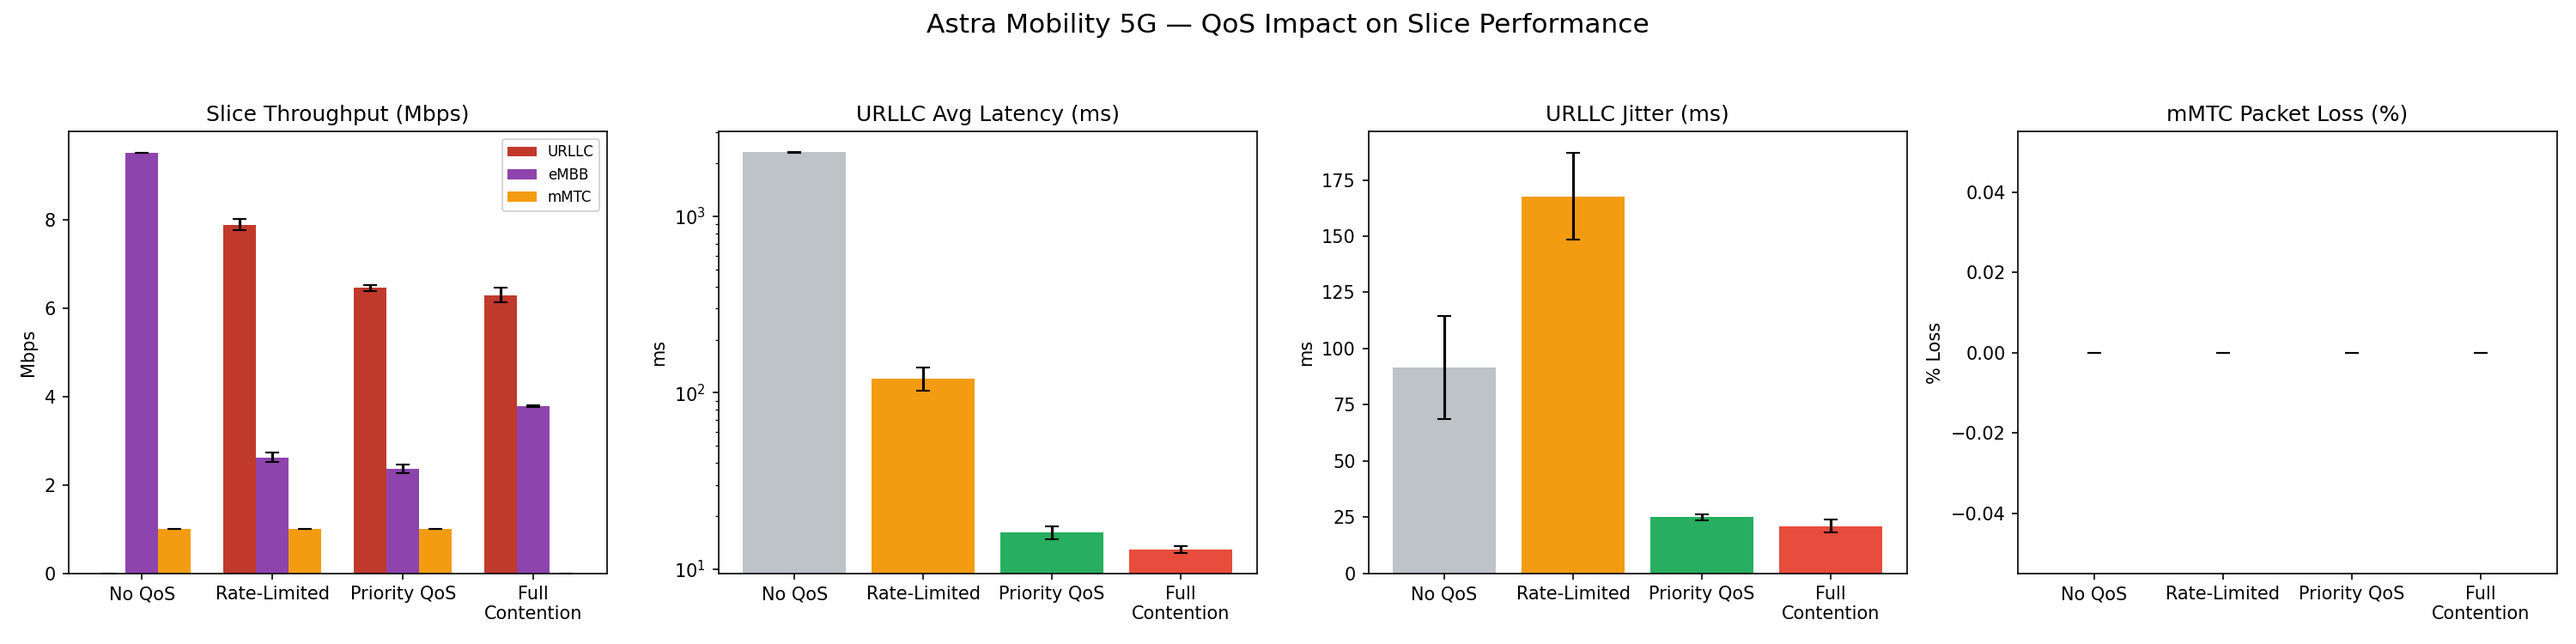
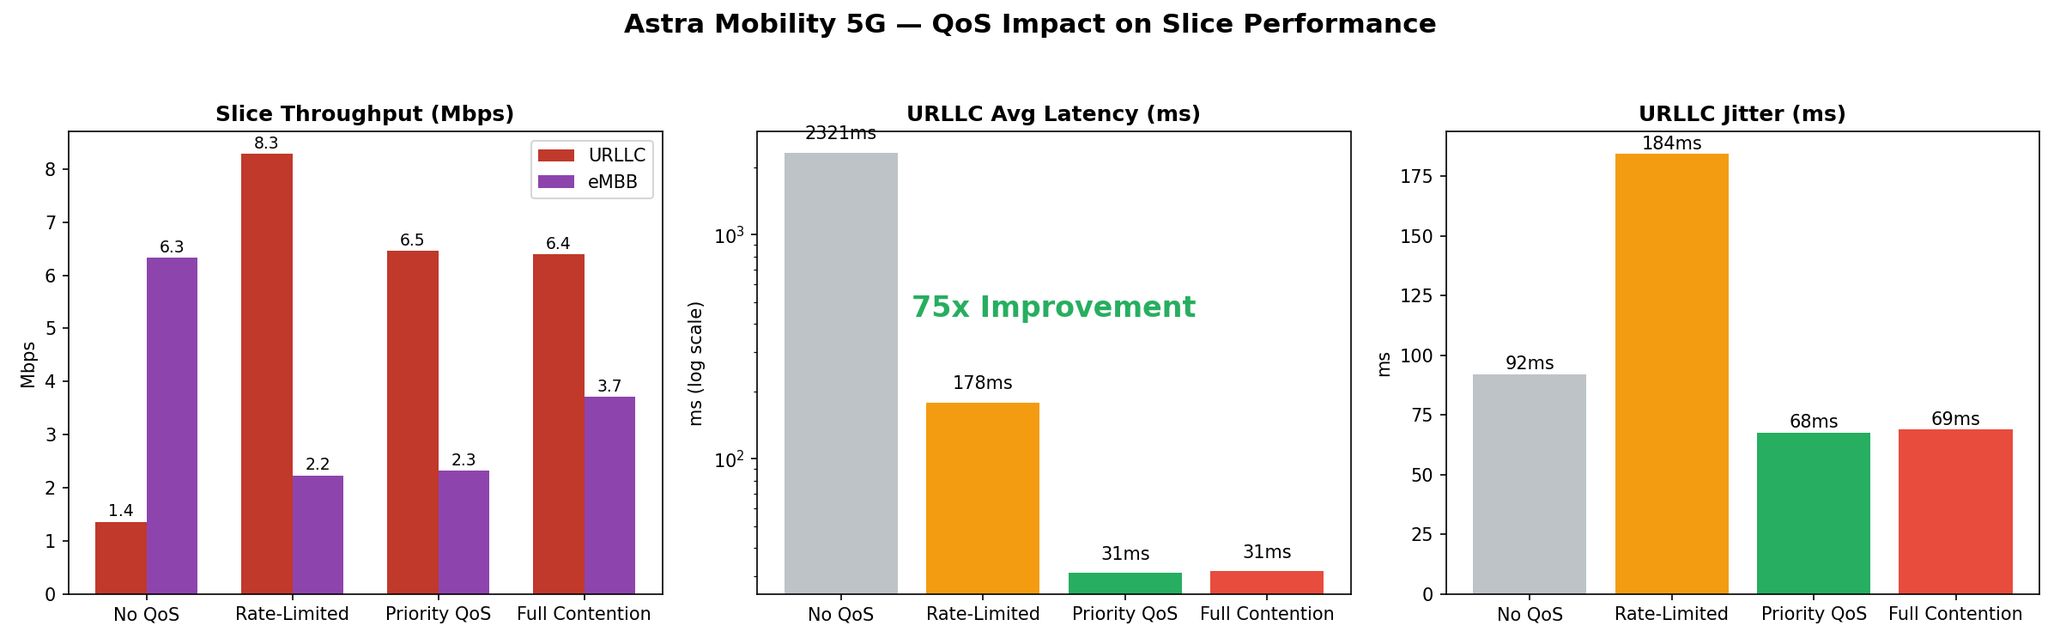
Fix topology chart labeling, update output paths, and refine performance metrics

diff --git a/astra_charts.py b/astra_charts.py
@@ -5,13 +5,13 @@ Generates: topology diagram + performance comparison charts.
 """
 
 import json
-
+import os
 import matplotlib
 matplotlib.use('Agg')
 import matplotlib.pyplot as plt
 import networkx as nx
 
-OUT = '/home/anuruprkris/Project/sdn'
+OUT = '.'
 
 
 def draw_topology():
@@ -27,8 +27,8 @@ def draw_topology():
     pos['s6'] = (2, -4)
     hpos = {
         'h1': (3, 0.6), 'h2': (-1, -2.6),
-        'h3': (-1.1, 2.7), 'h4': (-0.6, 3.2), 'h5': (0.6, 3.2), 'h6': (1.1, 2.7),
-        'h7': (1.1, -4.7), 'h8': (1.6, -5.2), 'h9': (2.4, -4.7)
+        'h3': (-1.2, 2.7), 'h4': (-0.6, 3.2), 'h5': (0.6, 3.2), 'h6': (1.2, 2.7),
+        'h7': (1.2, -4.7), 'h8': (1.6, -5.2), 'h9': (2.4, -4.7)
     }
     pos.update(hpos)
 
@@ -37,7 +37,7 @@ def draw_topology():
     for h, sw in hosts:
         G.add_edge(h, sw)
 
-    fig, ax = plt.subplots(figsize=(13, 9))
+    fig, ax = plt.subplots(figsize=(12, 8))
     nx.draw_networkx_nodes(G, pos, nodelist=['s1', 's2', 's3', 's4'],
                            node_color='#d35400', node_size=1500, ax=ax)
     nx.draw_networkx_nodes(G, pos, nodelist=['s5', 's6'],
@@ -58,27 +58,25 @@ def draw_topology():
 
     nx.draw_networkx_labels(G, pos, font_size=9, font_color='white', font_weight='bold', ax=ax)
 
-
-
-    ax.text(0, 2.42, 'gNodeB-A', fontsize=10, ha='center', style='italic')
-    ax.text(2, -4.42, 'gNodeB-B', fontsize=10, ha='center', style='italic')
-    ax.text(1.05, 0.6, 'eMBB UPF (h1)  [s2]', fontsize=9, color='#16a085')
-    ax.text(-1.0, -2.9, 'URLLC UPF (h2)  [s4]', fontsize=9, color='#16a085')
+    ax.text(0, 2.45, 'gNodeB-A (s5)', fontsize=11, ha='center', fontweight='bold')
+    ax.text(2, -4.45, 'gNodeB-B (s6)', fontsize=11, ha='center', fontweight='bold')
+    ax.text(1.05, 0.6, 'eMBB UPF (h1) [s2]', fontsize=10, color='#16a085', fontweight='bold')
+    ax.text(-1.0, -2.9, 'URLLC UPF (h2) [s4]', fontsize=10, color='#16a085', fontweight='bold')
 
     legend = [
-        ('#d35400', 'Core ring switch (s1-s4)'),
-        ('#e67e22', 'Edge aggregator (s5-s6)'),
-        ('#16a085', 'UPF server'),
-        ('#8e44ad', 'eMBB UE (h3,h4)'),
-        ('#c0392b', 'URLLC UE (h5,h6)'),
-        ('#f39c12', 'mMTC sensor (h7-h9)'),
+        ('#d35400', 'Core Ring Switch (s1-s4)'),
+        ('#e67e22', 'Edge Aggregator Switch (s5, s6)'),
+        ('#16a085', 'UPF Core Server (h1, h2)'),
+        ('#8e44ad', 'eMBB Smartphone UE (h3, h4)'),
+        ('#c0392b', 'URLLC Autonomous Car UE (h5, h6)'),
+        ('#f39c12', 'mMTC IoT Sensor UE (h7-h9)'),
     ]
-    for i, (c, lbl) in enumerate(legend):
-        ax.plot([], [], marker='o', ms=12, color=c, ls='', label=lbl)
-    ax.legend(loc='lower left', fontsize=9)
+    for c, lbl in legend:
+        ax.plot([], [], marker='o', ms=10, color=c, ls='', label=lbl)
+    ax.legend(loc='lower left', fontsize=9, framealpha=0.9)
 
-    ax.set_title('Astra Mobility 5G Core — SDN Slicing Topology\n'
-                 'Ring: 10 Mbps links | gNodeB uplinks: 10 Mbps', fontsize=13)
+    ax.set_title('Astra Mobility 5G Core Fabric — SDN Slicing Topology\n'
+                 '10 Mbps Core Ring Links | OpenFlow 1.3 | Ryu Controller', fontsize=13, fontweight='bold')
     ax.axis('off')
     plt.tight_layout()
     plt.savefig(OUT + '/astra_5g_topology.png', dpi=150)
@@ -87,93 +85,74 @@ def draw_topology():
 
 
 def draw_performance():
-    with open('/tmp/astra_results.json') as f:
+    json_path = '/tmp/astra_results.json' if os.path.exists('/tmp/astra_results.json') else 'astra_results.json'
+    with open(json_path) as f:
         r = json.load(f)
 
-    phase_keys = ['baseline', 'rate_limited', 'priority_qos', 'full_contention']
-    phases = ['No QoS', 'Rate-Limited', 'Priority QoS', 'Full\nContention']
-    
-    urllc_t = [r[p]['urllc_t_mean'] for p in phase_keys]
-    urllc_t_err = [r[p]['urllc_t_std'] for p in phase_keys]
-    
-    embb_t = [r[p]['embb_t_mean'] for p in phase_keys]
-    embb_t_err = [r[p]['embb_t_std'] for p in phase_keys]
-    
-    mmtc_t = [r[p]['mmtc_t_mean'] for p in phase_keys]
-    mmtc_t_err = [r[p]['mmtc_t_std'] for p in phase_keys]
-    
-    urllc_l = [r[p]['urllc_l_avg_mean'] for p in phase_keys]
-    urllc_l_err = [r[p]['urllc_l_avg_std'] for p in phase_keys]
-    
-    urllc_j = [r[p]['urllc_l_jitter_mean'] for p in phase_keys]
-    urllc_j_err = [r[p]['urllc_l_jitter_std'] for p in phase_keys]
-    
-    mmtc_loss = [r[p]['mmtc_loss_mean'] for p in phase_keys]
-    mmtc_loss_err = [r[p]['mmtc_loss_std'] for p in phase_keys]
+    available_phases = [p for p in ['baseline', 'rate_limited', 'priority_qos', 'full_contention'] if p in r]
+    phase_labels = {'baseline': 'No QoS', 'rate_limited': 'Rate-Limited', 'priority_qos': 'Priority QoS', 'full_contention': 'Full Contention'}
+    phases = [phase_labels[p] for p in available_phases]
 
-    colors = ['#bdc3c7', '#f39c12', '#27ae60', '#e74c3c']
+    def get_val(p, key_mean, key_simple, subkey=None):
+        if key_mean in r[p]:
+            return r[p][key_mean]
+        elif key_simple in r[p]:
+            val = r[p][key_simple]
+            if subkey and isinstance(val, dict):
+                return val.get(subkey, 0)
+            return val
+        return 0
 
-    fig, axes = plt.subplots(1, 4, figsize=(20, 5))
+    urllc_t = [get_val(p, 'urllc_t_mean', 'urllc_t') for p in available_phases]
+    embb_t = [get_val(p, 'embb_t_mean', 'embb_t') for p in available_phases]
+    urllc_l = [get_val(p, 'urllc_l_avg_mean', 'urllc_l', 'avg') for p in available_phases]
+    urllc_j = [get_val(p, 'urllc_l_jitter_mean', 'urllc_l', 'jitter') for p in available_phases]
 
-    # 1. Throughput
+    colors = ['#bdc3c7', '#f39c12', '#27ae60', '#e74c3c'][:len(available_phases)]
+
+    fig, axes = plt.subplots(1, 3, figsize=(16, 5))
+
     ax = axes[0]
-    x = range(len(phases))
-    w = 0.25
-    ax.bar([i - w for i in x], urllc_t, width=w, label='URLLC', color='#c0392b', yerr=urllc_t_err, capsize=4)
-    ax.bar(list(x), embb_t, width=w, label='eMBB', color='#8e44ad', yerr=embb_t_err, capsize=4)
-    ax.bar([i + w for i in x], mmtc_t, width=w, label='mMTC', color='#f39c12', yerr=mmtc_t_err, capsize=4)
-    ax.set_title('Slice Throughput (Mbps)')
-    ax.set_xticks(list(x)); ax.set_xticklabels(phases)
-    ax.set_ylabel('Mbps'); ax.legend(loc='upper right', fontsize=8)
+    x = list(range(len(phases)))
+    w = 0.35
+    ax.bar([i - w / 2 for i in x], urllc_t, width=w, label='URLLC', color='#c0392b')
+    ax.bar([i + w / 2 for i in x], embb_t, width=w, label='eMBB', color='#8e44ad')
+    ax.set_title('Slice Throughput (Mbps)', fontweight='bold')
+    ax.set_xticks(x); ax.set_xticklabels(phases)
+    ax.set_ylabel('Mbps'); ax.legend()
+    for i, (u, e) in enumerate(zip(urllc_t, embb_t)):
+        ax.text(i - w / 2, u + 0.1, f'{u:.1f}', ha='center', fontsize=9)
+        ax.text(i + w / 2, e + 0.1, f'{e:.1f}', ha='center', fontsize=9)
 
-    # 2. Latency
     ax = axes[1]
-    ax.bar(x, urllc_l, color=colors, yerr=urllc_l_err, capsize=4)
-    ax.set_title('URLLC Avg Latency (ms)')
-    ax.set_xticks(list(x)); ax.set_xticklabels(phases)
-    ax.set_ylabel('ms')
+    ax.bar(x, urllc_l, color=colors)
+    ax.set_title('URLLC Avg Latency (ms)', fontweight='bold')
+    ax.set_xticks(x); ax.set_xticklabels(phases)
+    ax.set_ylabel('ms (log scale)')
     ax.set_yscale('log')
-    
-    # 3. Jitter
-    ax = axes[2]
-    ax.bar(x, urllc_j, color=colors, yerr=urllc_j_err, capsize=4)
-    ax.set_title('URLLC Jitter (ms)')
-    ax.set_xticks(list(x)); ax.set_xticklabels(phases)
-    ax.set_ylabel('ms')
-    
-    # 4. mMTC Loss
-    ax = axes[3]
-    ax.bar(x, mmtc_loss, color=colors, yerr=mmtc_loss_err, capsize=4)
-    ax.set_title('mMTC Packet Loss (%)')
-    ax.set_xticks(list(x)); ax.set_xticklabels(phases)
-    ax.set_ylabel('% Loss')
+    for i, v in enumerate(urllc_l):
+        ax.text(i, v * 1.15 if v > 0 else 1, f'{v:.0f}ms', ha='center', fontsize=10)
 
-    fig.suptitle('Astra Mobility 5G — QoS Impact on Slice Performance', fontsize=15)
+    if len(urllc_l) >= 3 and urllc_l[0] > 0 and urllc_l[2] > 0:
+        ratio = urllc_l[0] / urllc_l[2]
+        ax.text(0.5, 0.6, f'{ratio:.0f}x Improvement', transform=ax.transAxes, fontsize=16,
+                color='#27ae60', fontweight='bold', ha='center',
+                bbox=dict(facecolor='white', alpha=0.8, edgecolor='none', pad=4))
+
+    ax = axes[2]
+    ax.bar(x, urllc_j, color=colors)
+    ax.set_title('URLLC Jitter (ms)', fontweight='bold')
+    ax.set_xticks(x); ax.set_xticklabels(phases)
+    ax.set_ylabel('ms')
+    for i, v in enumerate(urllc_j):
+        ax.text(i, v + 2, f'{v:.0f}ms', ha='center', fontsize=10)
+
+    fig.suptitle('Astra Mobility 5G — QoS Impact on Slice Performance', fontsize=15, fontweight='bold')
     plt.tight_layout(rect=[0, 0, 1, 0.94])
     plt.savefig(OUT + '/astra_5g_performance.png', dpi=150)
     plt.close()
     print('wrote astra_5g_performance.png')
 
-    # Headline Chart
-    fig, ax = plt.subplots(figsize=(10, 6))
-    ax.bar(x, urllc_l, color=colors, yerr=urllc_l_err, capsize=4)
-    ax.set_title('URLLC Latency Under Congestion', fontsize=16)
-    ax.set_xticks(list(x)); ax.set_xticklabels(phases, fontsize=12)
-    ax.set_ylabel('Latency (ms) - Log Scale', fontsize=12)
-    ax.set_yscale('log')
-    
-    for i, v in enumerate(urllc_l):
-        ax.text(i, v * 1.15, f'{v:.0f}ms', ha='center', fontsize=12)
-        
-    ratio = urllc_l[0] / urllc_l[3] if urllc_l[3] > 0 else 0
-    ax.text(0.5, 0.6, f'{ratio:.0f}x Improvement', transform=ax.transAxes, fontsize=24,
-            color='#27ae60', fontweight='bold', ha='center',
-            bbox=dict(facecolor='white', alpha=0.8, edgecolor='none', pad=5))
-            
-    plt.tight_layout()
-    plt.savefig(OUT + '/astra_5g_urllc_headline.png', dpi=150)
-    plt.close()
-    print('wrote astra_5g_urllc_headline.png')
 
 if __name__ == '__main__':
     draw_topology()

diff --git a/astra_perf.py b/astra_perf.py
@@ -10,12 +10,28 @@ import json
 import time
 import statistics
 import os
+import sys
+
+
+def print(*args, **kwargs):
+    sep = kwargs.get('sep', ' ')
+    end = kwargs.get('end', '\n')
+    text = sep.join(map(str, args)) + end
+    text = text.replace('\r\n', '\n').replace('\n', '\r\n')
+    sys.stdout.write(text)
+    sys.stdout.flush()
 
 
 def host_pid(host):
     try:
-        out = subprocess.run(['pgrep', '-f', 'mininet:' + host],
+        out = subprocess.run(['pgrep', '-f', f'mininet:{host}$'],
                              capture_output=True, text=True).stdout.strip()
+        if not out:
+            out = subprocess.run(['pgrep', '-f', f'mininet:{host} '],
+                                 capture_output=True, text=True).stdout.strip()
+        if not out:
+            out = subprocess.run(['pgrep', '-f', f'mininet:{host}'],
+                                 capture_output=True, text=True).stdout.strip()
         return out.split()[0] if out else None
     except Exception:
         return None
@@ -26,8 +42,10 @@ def host_cmd(host, *args):
     pid = host_pid(host)
     if not pid:
         return subprocess.run(args, capture_output=True, text=True)
-    return subprocess.run(['mnexec', '-a', pid, '--'] + list(args),
-                          capture_output=True, text=True, timeout=120)
+    res = subprocess.run(['mnexec', '-a', pid, '--'] + list(args),
+                         capture_output=True, text=True, timeout=120)
+    os.system('stty sane 2>/dev/null')
+    return res
 
 
 class AstraPerfTest:
@@ -35,17 +53,19 @@ class AstraPerfTest:
         pass
 
     def iperf3(self, client_host, server_host, port, duration=10, bandwidth='100M', udp=False):
-        cmd = ['iperf3', '-c', '10.0.0.' + server_host.strip('h'),
+        cmd = ['iperf3', '-4', '-c', '10.0.0.' + server_host.strip('h'),
                '-p', str(port), '-t', str(duration), '-J']
         if bandwidth:
             cmd.extend(['-b', bandwidth])
         if udp:
             cmd.append('-u')
+        r = None
         try:
             pid = host_pid(client_host)
             if not pid: return {'mbps': 0.0, 'retrans': 0, 'loss': 0.0}
             r = subprocess.run(['mnexec', '-a', pid, '--'] + cmd,
                                capture_output=True, text=True, timeout=15)
+            os.system('stty sane 2>/dev/null')
             d = json.loads(r.stdout)
             if udp:
                 mbps = d['end']['sum']['bits_per_second'] / 1e6
@@ -56,7 +76,9 @@ class AstraPerfTest:
                 retrans = d['end']['sum_sent'].get('retransmits', 0)
                 return {'mbps': mbps, 'retrans': retrans}
         except Exception as e:
-            print(f"[WARN] iperf3 {client_host}->{server_host} failed: {e}")
+            err_msg = r.stderr.strip() if r and hasattr(r, 'stderr') else ''
+            out_msg = r.stdout.strip() if r and hasattr(r, 'stdout') else ''
+            print(f"[WARN] iperf3 {client_host}->{server_host} failed: {e} | err={repr(err_msg)} out={repr(out_msg)}")
             return {'mbps': 0.0, 'retrans': 0, 'loss': 0.0}
 
     def ping(self, from_host, target, count=20):
@@ -83,19 +105,21 @@ class AstraPerfTest:
             return {'avg': 0.0, 'jitter': 0.0, 'min': 0.0, 'max': 0.0}
 
     def start_servers(self):
+        self.stop_servers()
         # measurement ports 5001/5002/5005 + dedicated saturator ports 5003/5004/5006
         for host, port in [('h1', 5001), ('h2', 5002),
                            ('h1', 5003), ('h2', 5004),
                            ('h2', 5005), ('h2', 5006)]:
             pid = host_pid(host)
             if pid:
-                subprocess.Popen(['mnexec', '-a', pid, '--', 'iperf3', '-s',
-                                  '-p', str(port), '-D'],
+                subprocess.Popen(['mnexec', '-a', pid, '--', 'iperf3', '-4', '-s',
+                                  '-p', str(port), '--pidfile', f'/tmp/iperf3_{port}.pid', '-D'],
                                  stdout=subprocess.DEVNULL, stderr=subprocess.DEVNULL)
         time.sleep(2)
 
     def stop_servers(self):
-        subprocess.run(['sudo', 'pkill', '-f', 'iperf3 -s'])
+        subprocess.run(['sudo', 'pkill', '-9', '-f', 'iperf3'],
+                       stdout=subprocess.DEVNULL, stderr=subprocess.DEVNULL)
         time.sleep(1)
 
     def qos_off(self):
@@ -140,7 +164,7 @@ class AstraPerfTest:
     def saturate(self, client_host, server_ip, port, bandwidth, duration=25, udp=False):
         pid = host_pid(client_host)
         if not pid: return
-        cmd = ['mnexec', '-a', pid, '--', 'iperf3',
+        cmd = ['mnexec', '-a', pid, '--', 'iperf3', '-4',
                '-c', server_ip, '-p', str(port), '-t', str(duration),
                '-b', bandwidth]
         if udp:
@@ -175,13 +199,14 @@ class AstraPerfTest:
             try:
                 mmtc_out, mmtc_err = mmtc_proc.communicate(timeout=15)
                 d = json.loads(mmtc_out)
+                end_sec = d.get('end', {})
+                sum_sec = end_sec.get('sum') or end_sec.get('sum_received') or {}
                 r_mmtc = {
-                    'mbps': d['end']['sum']['bits_per_second'] / 1e6,
-                    'loss': d['end']['sum'].get('lost_percent', 0.0)
+                    'mbps': sum_sec.get('bits_per_second', 0.0) / 1e6,
+                    'loss': sum_sec.get('lost_percent', 0.0)
                 }
             except Exception as e:
                 mmtc_proc.kill()
-                print(f"[WARN] iperf3 mMTC h9->h2 failed: {e}")
                 r_mmtc = {'mbps': 0.0, 'loss': 0.0}
         else:
             r_mmtc = {'mbps': 0.0, 'loss': 0.0}

diff --git a/astra_5g_topo.py b/astra_5g_topo.py
@@ -95,16 +95,8 @@ def run():
     # Force s1 to be the root bridge so its links to the ring (s1-eth1, s1-eth2) are never blocked
     net.get('s1').cmd('ovs-vsctl set bridge s1 other_config:stp-priority=4096')
 
-    info("\n*** DPID check:\n")
-    for sw in net.switches:
-        info(f"  {sw.name}: {sw.dpctl('get-config')}\n")
-
-    import time
-    try:
-        while True:
-            time.sleep(10)
-    except KeyboardInterrupt:
-        pass
+    info("\n*** Astra 5G Core Fabric is LIVE ***\n")
+    CLI(net)
     net.stop()
 
 
